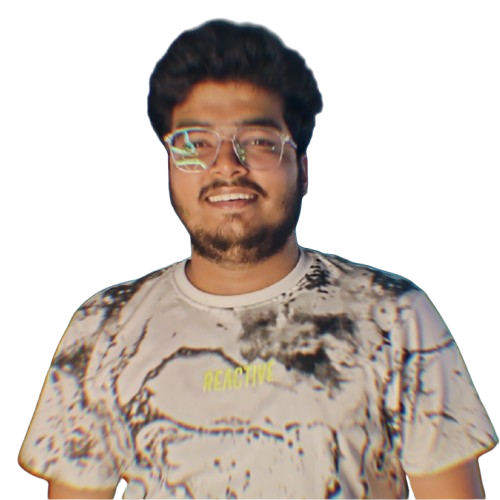
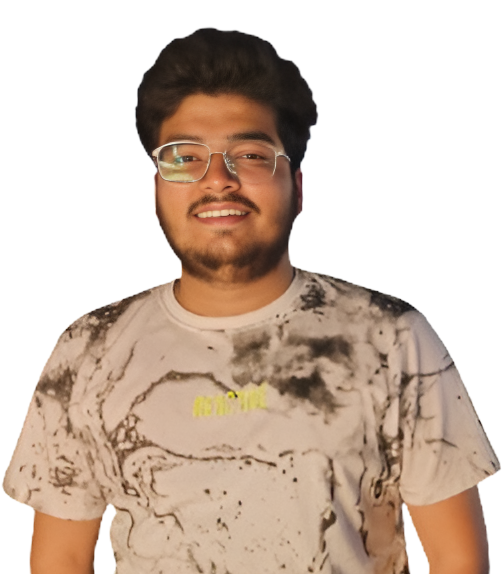
Modified hero image.

diff --git a/index.html b/index.html
@@ -90,7 +90,7 @@
             </div>
             
             <div class="hero-img">
-                <img src="images/hero-test.png" alt="Hero Image">
+                <img src="images/hero-image.png" alt="Hero Image">
             </div>
         </div>
     </section>
